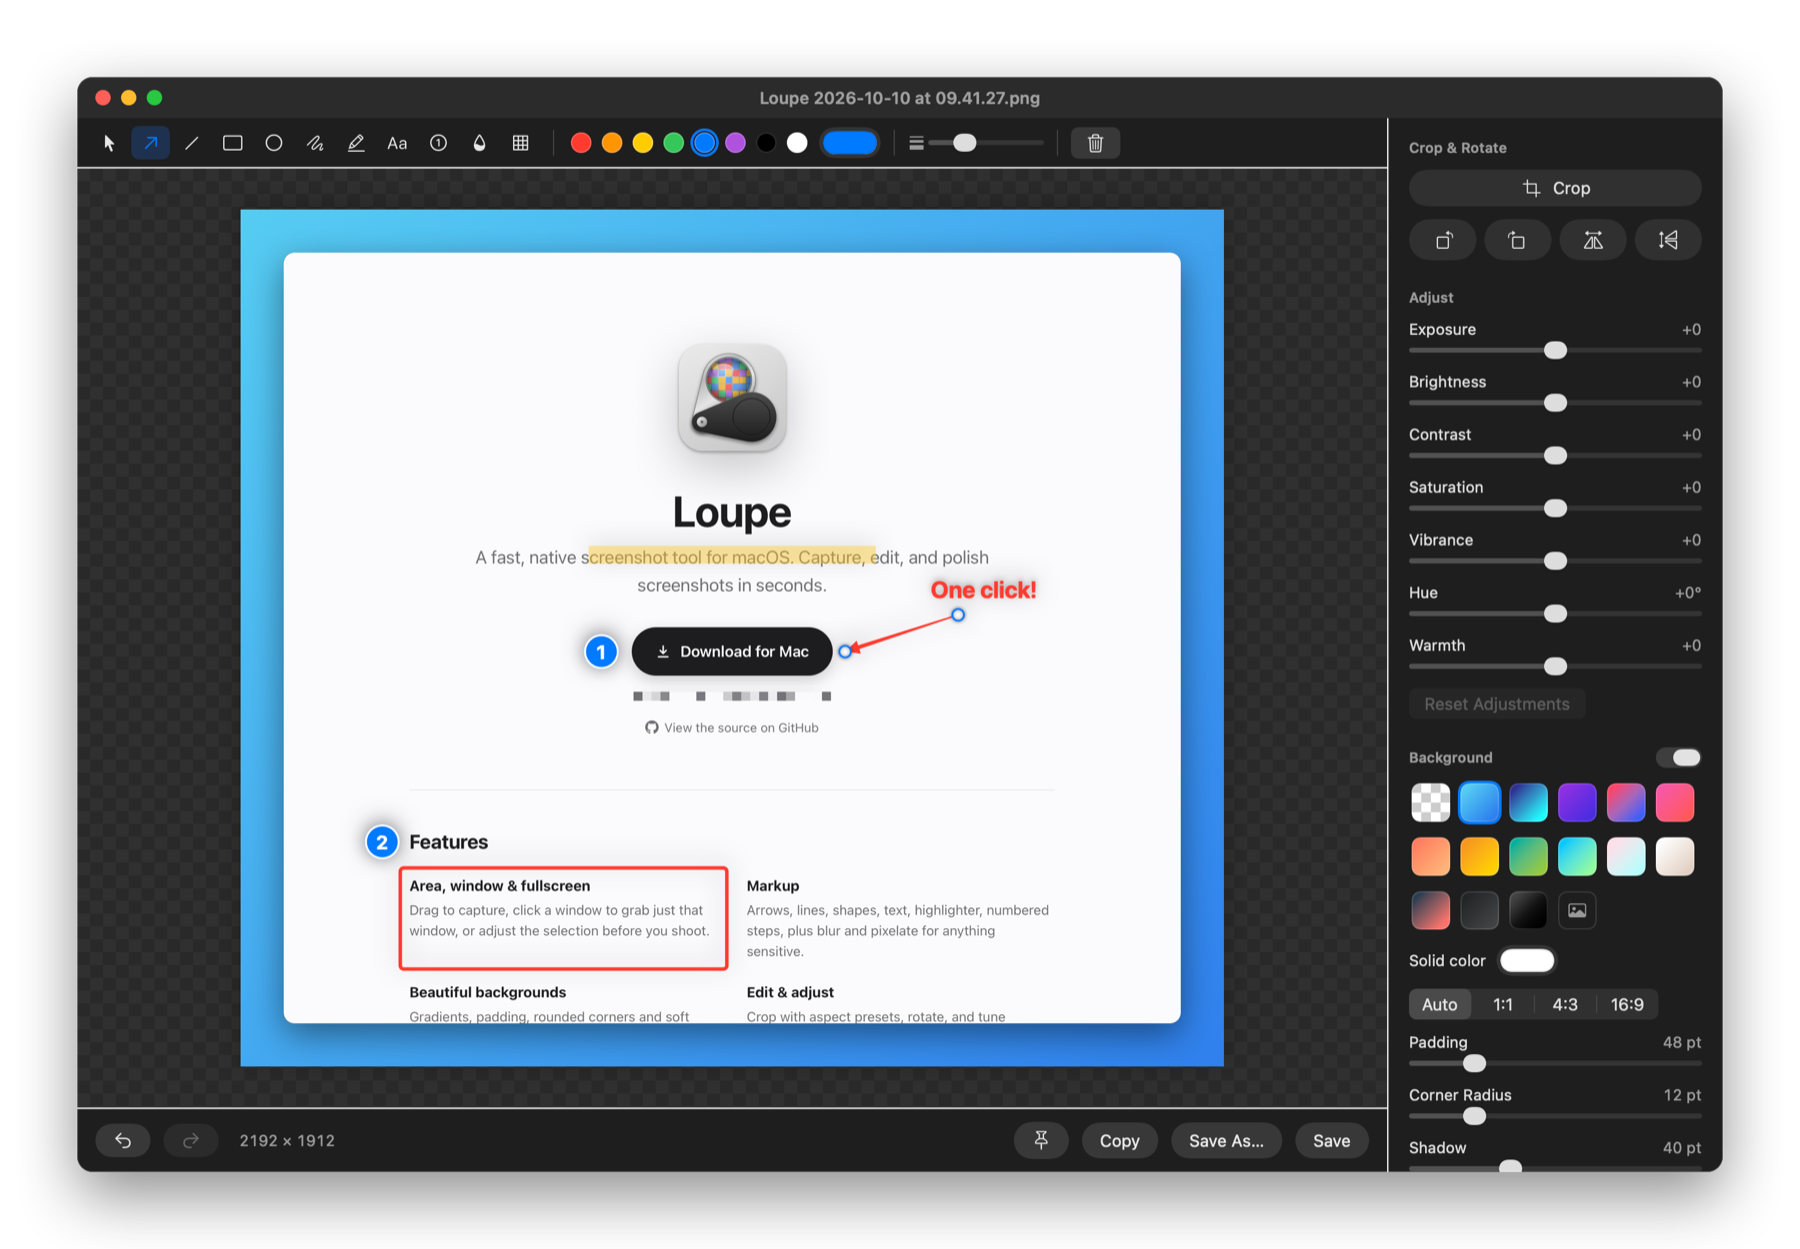
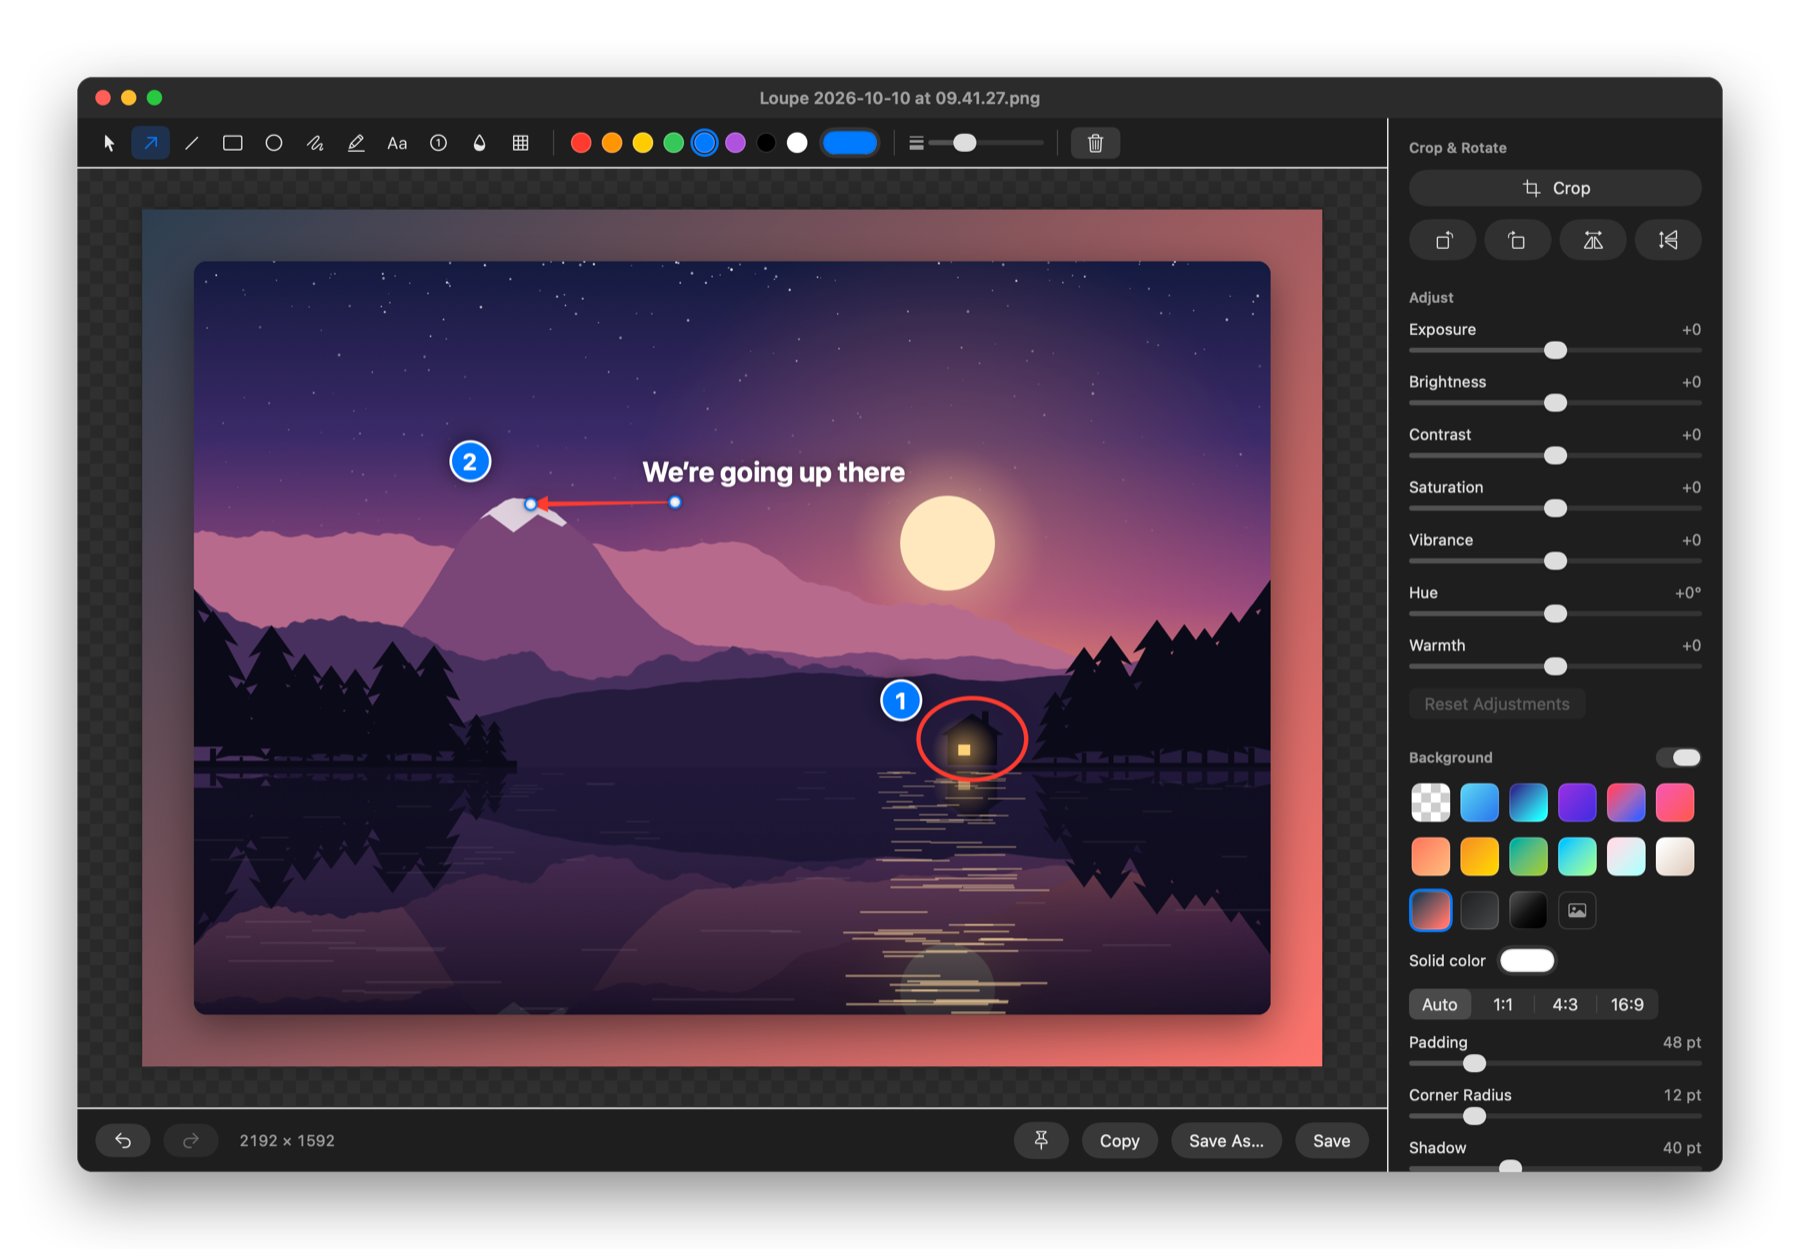
Landing page screenshot: edit a mountain lake instead of loupe.pics
The screenshot renderer now paints a dusk landscape (stars, sun, ridges,
pines, a cabin, the lake's reflection) in Core Graphics instead of
capturing the website, so it no longer needs WebKit or the network.

diff --git a/scripts/screenshot/main.swift b/scripts/screenshot/main.swift
@@ -1,9 +1,8 @@
 // Renders site/editor.png: the real Loupe editor (offscreen, dark mode) editing
-// a capture of loupe.pics with markup and a gradient background.
+// a painted mountain-lake landscape with markup and a gradient background.
 // Built and run by scripts/make-screenshot.sh.
 import AppKit
 import SwiftUI
-import WebKit
 
 @main
 enum MakeScreenshot {
@@ -13,65 +12,225 @@ enum MakeScreenshot {
         app.setActivationPolicy(.accessory)
         let output = URL(fileURLWithPath: CommandLine.arguments.count > 1 ? CommandLine.arguments[1] : "site/editor.png")
 
-        let page = try await capturePage(URL(string: "https://loupe.pics")!, size: CGSize(width: 1000, height: 860))
-        let image = try await makeEditorImage(capture: page)
+        let scene = paintLandscape(size: CGSize(width: 1000, height: 700), scale: 2)
+        let image = try await makeEditorImage(capture: scene)
         try image.representation(using: .png, properties: [:])!.write(to: output)
         print("Wrote \(output.path) (\(image.pixelsWide)×\(image.pixelsHigh))")
     }
 
-    struct PageCapture {
+    struct Landscape {
         let image: CGImage
-        /// Element rects in CSS points, keyed by name.
-        let rects: [String: CGRect]
-        /// Page width in CSS points.
-        let width: CGFloat
+        /// Pixels per point.
+        let scale: CGFloat
+        /// Landmarks in points, top-left origin, keyed by name.
+        let points: [String: CGPoint]
     }
 
-    // MARK: - The page being "screenshotted"
+    // MARK: - The photo being "screenshotted"
 
-    @MainActor
-    static func capturePage(_ url: URL, size: CGSize) async throws -> PageCapture {
-        let window = NSWindow(contentRect: CGRect(origin: .zero, size: size), styleMask: .borderless, backing: .buffered, defer: false)
-        window.alphaValue = 0
-        let webView = WKWebView(frame: CGRect(origin: .zero, size: size))
-        webView.appearance = NSAppearance(named: .aqua)
-        window.contentView = webView
-        window.orderFront(nil)
-        webView.load(URLRequest(url: url))
-        while webView.isLoading { await pause(0.1) }
-        await pause(1.0) // Fonts and the icon.
+    /// Deterministic RNG so the painting is the same on every run.
+    struct Seeded {
+        var state: UInt64
+        mutating func next() -> CGFloat {
+            state = state &* 6364136223846793005 &+ 1442695040888963407
+            return CGFloat(state >> 33) / CGFloat(1 << 31)
+        }
+    }
 
-        let script = """
-        JSON.stringify(Object.fromEntries([
-          ['download', '.download'], ['tagline', '.tagline'], ['features', 'h2'], ['firstFeature', '.features li'], ['meta', '.meta']
-        ].map(([k, s]) => { const r = document.querySelector(s).getBoundingClientRect(); return [k, [r.x, r.y, r.width, r.height]]; })))
-        """
-        let json = try await webView.evaluateJavaScript(script) as! String
-        let raw = try JSONDecoder().decode([String: [Double]].self, from: Data(json.utf8))
-        let rects = raw.mapValues { CGRect(x: $0[0], y: $0[1], width: $0[2], height: $0[3]) }
+    /// A ridge line by midpoint displacement: `count` heights (0…1) across the width.
+    static func ridge(_ rng: inout Seeded, count: Int = 257, roughness: CGFloat) -> [CGFloat] {
+        var h = [CGFloat](repeating: 0, count: count)
+        h[0] = rng.next(); h[count - 1] = rng.next()
+        var step = count - 1, amplitude: CGFloat = 0.5
+        while step > 1 {
+            let half = step / 2
+            for i in stride(from: half, to: count, by: step) {
+                h[i] = (h[i - half] + h[i + half]) / 2 + (rng.next() - 0.5) * amplitude
+            }
+            step = half
+            amplitude *= roughness
+        }
+        return h
+    }
 
-        let config = WKSnapshotConfiguration()
-        config.snapshotWidth = NSNumber(value: Double(size.width)) // points; pixels depend on the display
-        let snapshot = try await webView.takeSnapshot(configuration: config)
-        window.orderOut(nil)
-        return PageCapture(image: snapshot.cgImage(forProposedRect: nil, context: nil, hints: nil)!, rects: rects, width: size.width)
+    static func color(_ hex: UInt32, _ alpha: CGFloat = 1) -> CGColor {
+        CGColor(srgbRed: CGFloat((hex >> 16) & 0xFF) / 255, green: CGFloat((hex >> 8) & 0xFF) / 255, blue: CGFloat(hex & 0xFF) / 255, alpha: alpha)
+    }
+
+    /// Paints a mountain lake at dusk: stars, a low sun, hazy ridges, pines, a cabin and the reflection.
+    static func paintLandscape(size: CGSize, scale: CGFloat) -> Landscape {
+        let width = size.width, height = size.height
+        let shore: CGFloat = 470 // Water line, from the top.
+        var rng = Seeded(state: 0x10_0be)
+        let context = CGContext(
+            data: nil, width: Int(width * scale), height: Int(height * scale), bitsPerComponent: 8, bytesPerRow: 0,
+            space: CGColorSpace(name: CGColorSpace.sRGB)!, bitmapInfo: CGImageAlphaInfo.premultipliedLast.rawValue
+        )!
+        // Work in points with a top-left origin.
+        context.scaleBy(x: scale, y: scale)
+        context.translateBy(x: 0, y: height)
+        context.scaleBy(x: 1, y: -1)
+        let space = CGColorSpace(name: CGColorSpace.sRGB)!
+        func gradient(_ stops: [(UInt32, CGFloat)]) -> CGGradient {
+            CGGradient(colorsSpace: space, colors: stops.map { color($0.0) } as CFArray, locations: stops.map(\.1))!
+        }
+
+        // Sky.
+        context.drawLinearGradient(
+            gradient([(0x141A3F, 0), (0x3B2A68, 0.35), (0x9A4A7E, 0.68), (0xF0896A, 0.9), (0xFFC58A, 1)]),
+            start: CGPoint(x: 0, y: 0), end: CGPoint(x: 0, y: shore), options: [.drawsAfterEndLocation]
+        )
+        // Stars, fading toward the horizon.
+        for _ in 0..<260 {
+            let x = rng.next() * width, y = pow(rng.next(), 1.6) * shore * 0.6
+            let r = 0.4 + rng.next() * 0.9
+            context.setFillColor(CGColor(gray: 1, alpha: (0.25 + rng.next() * 0.7) * (1 - y / (shore * 0.6))))
+            context.fillEllipse(in: CGRect(x: x - r, y: y - r, width: r * 2, height: r * 2))
+        }
+        // Sun and glow.
+        let sun = CGPoint(x: 700, y: 262)
+        context.drawRadialGradient(
+            CGGradient(colorsSpace: space, colors: [color(0xFFD9A0, 0.75), color(0xFF9A6A, 0.25), color(0xFF7A6A, 0)] as CFArray, locations: [0, 0.3, 1])!,
+            startCenter: sun, startRadius: 0, endCenter: sun, endRadius: 300, options: []
+        )
+        context.setFillColor(color(0xFFE8BE))
+        context.fillEllipse(in: CGRect(x: sun.x - 44, y: sun.y - 44, width: 88, height: 88))
+
+        // Ridges, far to near: (base, height, roughness, colour). Far ones take on the sky's haze.
+        let layers: [(CGFloat, CGFloat, CGFloat, UInt32)] = [
+            (400, 150, 0.55, 0xB86A8C), (430, 210, 0.52, 0x7A4677), (455, 150, 0.5, 0x48305E), (472, 90, 0.48, 0x241B3D),
+        ]
+        var summit = CGPoint.zero
+        for (index, layer) in layers.enumerated() {
+            var h = ridge(&rng, roughness: layer.2)
+            if index == 1 { // The tall one: a clear summit left of centre.
+                for i in h.indices {
+                    let d = (CGFloat(i) / CGFloat(h.count - 1) - 0.3) / 0.11
+                    h[i] += 0.75 * exp(-d * d)
+                }
+            }
+            let lo = h.min()!, hi = h.max()!
+            let path = CGMutablePath()
+            path.move(to: CGPoint(x: 0, y: height))
+            for (i, value) in h.enumerated() {
+                let point = CGPoint(x: CGFloat(i) / CGFloat(h.count - 1) * width, y: layer.0 - (value - lo) / (hi - lo) * layer.1)
+                path.addLine(to: point)
+                if index == 1, point.y < (summit == .zero ? .infinity : summit.y) { summit = point }
+            }
+            path.addLine(to: CGPoint(x: width, y: height))
+            path.closeSubpath()
+            context.saveGState()
+            context.addPath(path)
+            context.clip()
+            let top = layer.0 - layer.1
+            context.drawLinearGradient(
+                CGGradient(colorsSpace: space, colors: [color(layer.3), color(layer.3, 1).copy(alpha: 1)!, color(0x120E24)] as CFArray, locations: [0, 0.4, 1])!,
+                start: CGPoint(x: 0, y: top), end: CGPoint(x: 0, y: height + 200 - CGFloat(index) * 40), options: []
+            )
+            // Snow on the tall one's summit.
+            if index == 1 {
+                let snow = CGMutablePath()
+                snow.move(to: CGPoint(x: summit.x - 90, y: summit.y - 10))
+                for i in 0...8 {
+                    let x = summit.x - 90 + CGFloat(i) * 22.5
+                    snow.addLine(to: CGPoint(x: x, y: summit.y + 22 + (i % 2 == 0 ? 10 : -4) - abs(x - summit.x) * 0.12))
+                }
+                snow.addLine(to: CGPoint(x: summit.x + 90, y: summit.y - 10))
+                context.addPath(snow)
+                context.setFillColor(CGColor(gray: 1, alpha: 0.75))
+                context.fillPath()
+            }
+            context.restoreGState()
+        }
+
+        // Pines along both shores.
+        func pine(_ x: CGFloat, _ base: CGFloat, _ h: CGFloat) {
+            let w = h * 0.32
+            let path = CGMutablePath()
+            path.move(to: CGPoint(x: x, y: base - h))
+            for tier in 1...4 {
+                let y = base - h + h * CGFloat(tier) / 4.4
+                let spread = w * (0.35 + 0.65 * CGFloat(tier) / 4)
+                path.addLine(to: CGPoint(x: x + spread, y: y))
+                path.addLine(to: CGPoint(x: x + spread * 0.45, y: y - h * 0.04))
+            }
+            for tier in (1...4).reversed() {
+                let y = base - h + h * CGFloat(tier) / 4.4
+                let spread = w * (0.35 + 0.65 * CGFloat(tier) / 4)
+                path.addLine(to: CGPoint(x: x - spread * 0.45, y: y - h * 0.04))
+                path.addLine(to: CGPoint(x: x - spread, y: y))
+            }
+            path.closeSubpath()
+            context.addPath(path)
+            context.addRect(CGRect(x: x - w * 0.06, y: base - h * 0.12, width: w * 0.12, height: h * 0.12))
+            context.setFillColor(color(0x0C0A18))
+            context.fillPath()
+        }
+        // Low banks the trees stand on.
+        context.setFillColor(color(0x0C0A18))
+        context.fill(CGRect(x: 0, y: shore - 6, width: 300, height: 8))
+        context.fill(CGRect(x: 760, y: shore - 4, width: 240, height: 6))
+        var x: CGFloat = -10
+        while x < 290 { pine(x, shore, 70 + rng.next() * 110 - x * 0.18); x += 14 + rng.next() * 16 }
+        x = 800
+        while x < 1010 { pine(x, shore, 50 + rng.next() * 80 + (x - 800) * 0.35); x += 13 + rng.next() * 15 }
+
+        // A cabin with a lit window, on the right bank.
+        let cabin = CGRect(x: 700, y: shore - 30, width: 46, height: 28)
+        context.setFillColor(color(0x0C0A18))
+        context.fill(cabin)
+        context.move(to: CGPoint(x: cabin.minX - 6, y: cabin.minY))
+        context.addLine(to: CGPoint(x: cabin.midX, y: cabin.minY - 20))
+        context.addLine(to: CGPoint(x: cabin.maxX + 6, y: cabin.minY))
+        context.fillPath()
+        context.fill(CGRect(x: cabin.maxX - 14, y: cabin.minY - 22, width: 6, height: 14)) // Chimney.
+        let window = CGRect(x: cabin.minX + 10, y: cabin.minY + 9, width: 11, height: 10)
+        context.drawRadialGradient(
+            CGGradient(colorsSpace: space, colors: [color(0xFFC46A, 0.55), color(0xFFC46A, 0)] as CFArray, locations: [0, 1])!,
+            startCenter: CGPoint(x: window.midX, y: window.midY), startRadius: 0, endCenter: CGPoint(x: window.midX, y: window.midY), endRadius: 30, options: []
+        )
+        context.setFillColor(color(0xFFD27A))
+        context.fill(window)
+
+        // The lake: the scene above, mirrored, darkened, with ripples.
+        let above = context.makeImage()!.cropping(to: CGRect(x: 0, y: 0, width: width * scale, height: shore * scale))!
+        context.saveGState()
+        context.translateBy(x: 0, y: shore * 2)
+        context.scaleBy(x: 1, y: -1)
+        // CGContext draws images upright in its own (flipped here) space, so this lands mirrored below the shore.
+        context.translateBy(x: 0, y: shore)
+        context.scaleBy(x: 1, y: -1)
+        context.draw(above, in: CGRect(x: 0, y: 0, width: width, height: shore))
+        context.restoreGState()
+        context.drawLinearGradient(
+            CGGradient(colorsSpace: space, colors: [color(0x1A1433, 0.35), color(0x0A0818, 0.85)] as CFArray, locations: [0, 1])!,
+            start: CGPoint(x: 0, y: shore), end: CGPoint(x: 0, y: height), options: []
+        )
+        for _ in 0..<140 {
+            let y = shore + 4 + pow(rng.next(), 1.4) * (height - shore)
+            let length = 20 + rng.next() * 140 * (y - shore) / (height - shore)
+            let cx = rng.next() < 0.45 ? sun.x + (rng.next() - 0.5) * 110 : rng.next() * width
+            let nearSun = abs(cx - sun.x) < 70
+            context.setFillColor(nearSun ? color(0xFFD9A0, 0.5) : CGColor(gray: 1, alpha: 0.07))
+            context.fill(CGRect(x: cx - length / 2, y: y, width: length, height: 0.8 + (y - shore) / 160))
+        }
+
+        return Landscape(image: context.makeImage()!, scale: scale, points: [
+            "summit": summit, "cabin": CGPoint(x: cabin.midX, y: cabin.midY - 6),
+        ])
     }
 
     // MARK: - Editor
 
     @MainActor
-    static func makeEditorImage(capture: PageCapture) async throws -> NSBitmapImageRep {
-        let pixelsPerPoint = CGFloat(capture.image.width) / capture.width
-        let screenshot = Screenshot(image: capture.image, scale: pixelsPerPoint)
+    static func makeEditorImage(capture: Landscape) async throws -> NSBitmapImageRep {
+        let screenshot = Screenshot(image: capture.image, scale: capture.scale)
         let model = EditorModel(screenshot: screenshot)
-        let px: (CGFloat) -> CGFloat = { $0 * pixelsPerPoint } // CSS points → capture pixels
+        let px: (CGPoint) -> CGPoint = { CGPoint(x: $0.x * capture.scale, y: $0.y * capture.scale) } // points → capture pixels
         let red = RGBAColor(hex: 0xFF3B30)
 
-        let download = capture.rects["download"]!
-        let tagline = capture.rects["tagline"]!
-        let feature = capture.rects["firstFeature"]!
-        let features = capture.rects["features"]!
-        let meta = capture.rects["meta"]!
+        let summit = capture.points["summit"]!
+        let cabin = capture.points["cabin"]!
 
         // Colour/size changes apply to the selected annotation, so deselect before each change.
         func style(_ color: RGBAColor, size: Double) {
@@ -80,34 +239,24 @@ enum MakeScreenshot {
             model.setAnnotationSize(size, checkpoint: false)
         }
 
-        style(RGBAColor(hex: 0xFFCC00), size: 5)
-        model.addAnnotation(model.newAnnotation(.highlighter, points: [
-            CGPoint(x: px(tagline.minX + 150), y: px(tagline.minY + 13)),
-            CGPoint(x: px(tagline.maxX - 150), y: px(tagline.minY + 13)),
-        ]))
-
-        style(red, size: 4)
-        var label = model.newAnnotation(.text, points: [CGPoint(x: px(download.maxX + 110), y: px(download.minY - 58))])
-        label.text = "One click!"
+        style(RGBAColor(hex: 0xFFFFFF), size: 4)
+        var label = model.newAnnotation(.text, points: [px(CGPoint(x: summit.x + 120, y: summit.y - 40))])
+        label.text = "We’re going up there"
         model.addAnnotation(label)
+        style(red, size: 4)
         model.addAnnotation(model.newAnnotation(.arrow, points: [
-            CGPoint(x: px(download.maxX + 140), y: px(download.minY - 14)),
-            CGPoint(x: px(download.maxX + 14), y: px(download.midY)),
+            px(CGPoint(x: summit.x + 150, y: summit.y + 4)),
+            px(CGPoint(x: summit.x + 16, y: summit.y + 6)),
         ]))
-        model.addAnnotation(model.newAnnotation(.rectangle, points: [
-            CGPoint(x: px(feature.minX - 10), y: px(feature.minY - 8)),
-            CGPoint(x: px(feature.maxX + 10), y: px(feature.maxY + 8)),
-        ]))
-        model.addAnnotation(model.newAnnotation(.pixelate, points: [
-            CGPoint(x: px(meta.minX + 40), y: px(meta.minY - 3)),
-            CGPoint(x: px(meta.maxX - 40), y: px(meta.maxY + 3)),
+        model.addAnnotation(model.newAnnotation(.ellipse, points: [
+            px(CGPoint(x: cabin.x - 50, y: cabin.y - 42)), px(CGPoint(x: cabin.x + 50, y: cabin.y + 34)),
         ]))
         style(RGBAColor(hex: 0x007AFF), size: 4)
-        model.addAnnotation(model.newAnnotation(.step, points: [CGPoint(x: px(download.minX - 34), y: px(download.midY))]))
-        model.addAnnotation(model.newAnnotation(.step, points: [CGPoint(x: px(features.minX - 30), y: px(features.midY))]))
+        model.addAnnotation(model.newAnnotation(.step, points: [px(CGPoint(x: cabin.x - 66, y: cabin.y - 40))]))
+        model.addAnnotation(model.newAnnotation(.step, points: [px(CGPoint(x: summit.x - 40, y: summit.y - 34))]))
 
         model.state.backdrop.enabled = true
-        model.state.backdrop.fill = .gradient(id: "sky")
+        model.state.backdrop.fill = .gradient(id: "dusk")
         model.state.backdrop.padding = 48
         model.state.backdrop.cornerRadius = 12
         model.tool = .arrow

diff --git a/site/index.html b/site/index.html
@@ -135,7 +135,7 @@
     </header>
 
     <img class="shot" src="editor.png" width="1800" height="1249"
-         alt="The Loupe editor: a screenshot marked up with an arrow, text, numbered steps, a highlight, a box and a pixelated line, on a blue gradient background">
+         alt="The Loupe editor: a mountain lake at dusk marked up with an arrow, text, numbered steps and a circle, on a dusk gradient background">
 
     <section>
       <h2>Features</h2>
